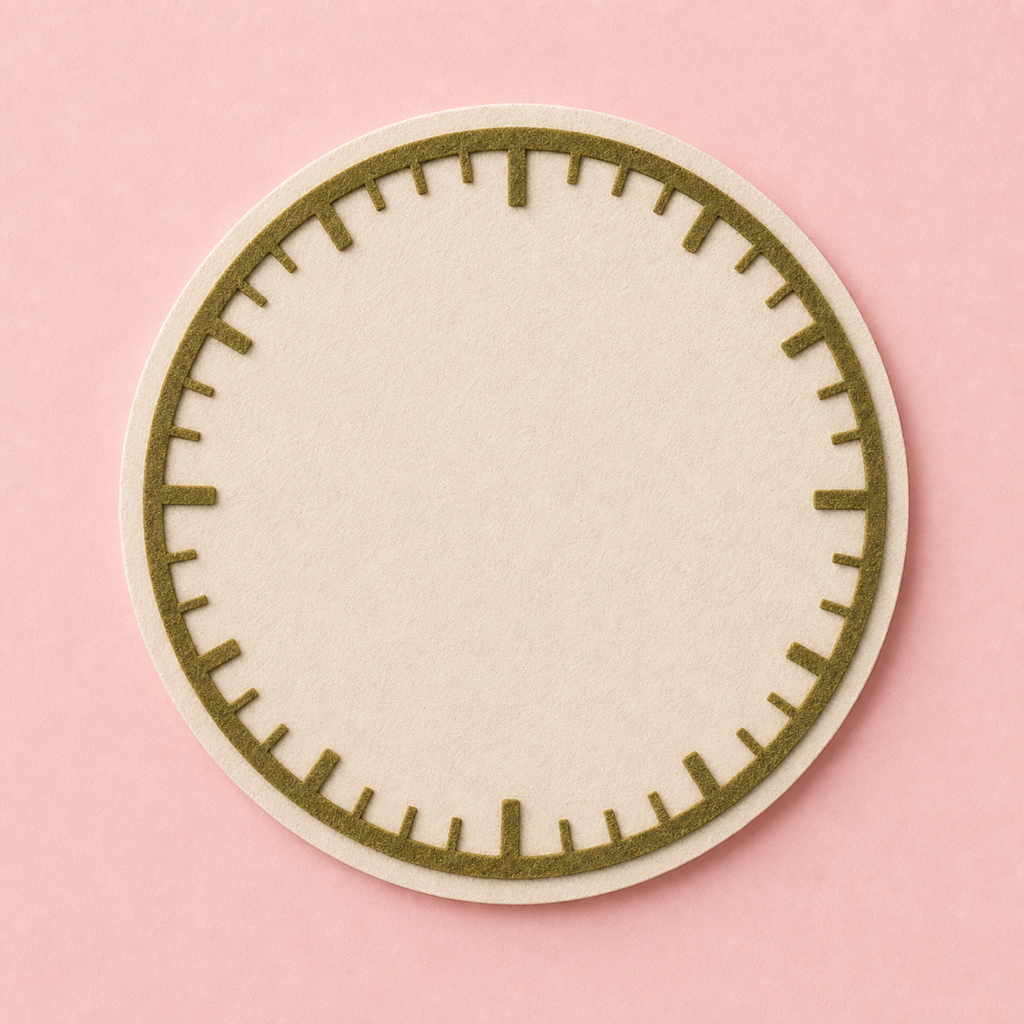
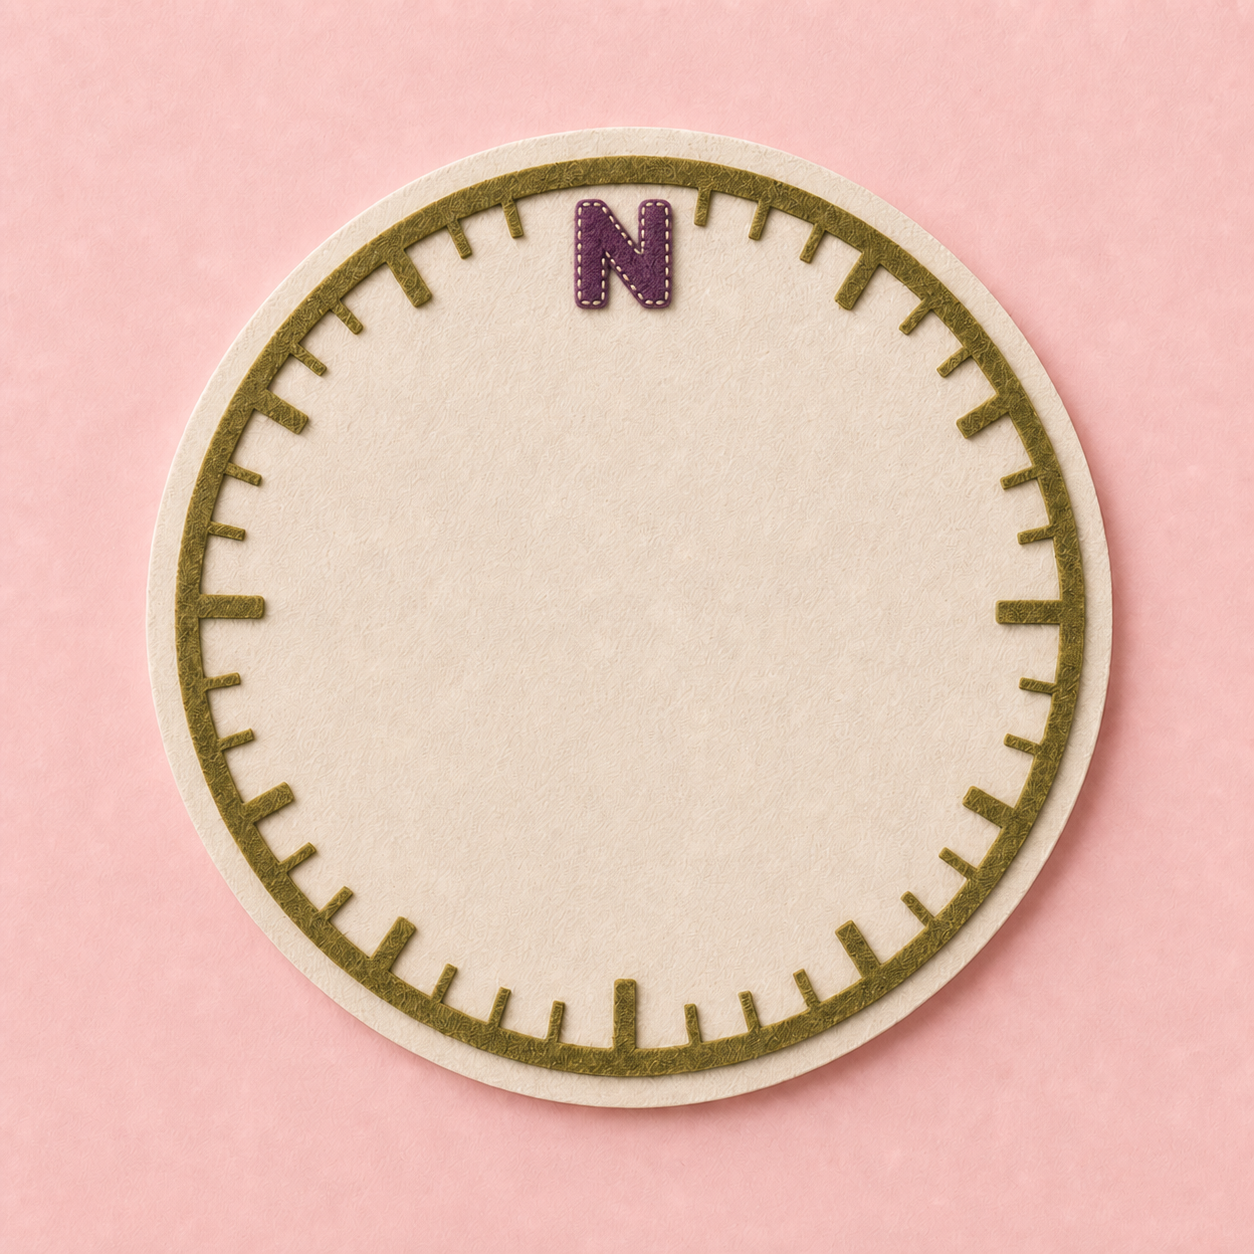
feat: add felt compass details and app support pages

Changed region(s): [[0.4375, 0.125, 0.5625, 0.25], [0.8125, 0.4688, 0.8438, 0.5], [0.3125, 0.7812, 0.3438, 0.8125]]

diff --git a/support.html b/support.html
@@ -1,0 +1,73 @@
+<!doctype html>
+<html lang="pl">
+<head>
+  <meta charset="utf-8">
+  <meta name="viewport" content="width=device-width, initial-scale=1, viewport-fit=cover">
+  <meta name="theme-color" content="#ffe1eb">
+  <meta name="description" content="Pomoc i kontakt dla aplikacji ŻabHop.">
+  <title>ŻabHop — pomoc / support</title>
+  <link rel="icon" href="./icon.png?v=4">
+  <link rel="stylesheet" href="./styles.css?v=6">
+</head>
+<body class="legal-page">
+  <main class="legal-shell">
+    <header class="legal-header">
+      <a class="brand-lockup legal-brand" href="./" aria-label="Wróć do ŻabHop">
+        <img src="./felt-frog.png" alt="" class="brand-icon">
+        <span class="brand-name">ŻabHop</span>
+      </a>
+      <a class="small-action" href="./">Wróć</a>
+    </header>
+
+    <article class="legal-document">
+      <p class="eyebrow">POMOC / SUPPORT</p>
+      <h1>Żaba zgubiła trop?</h1>
+      <p class="legal-lead">Najczęstsze problemy da się naprawić w Ustawieniach iPhone’a. Jeśli nie — zgłoszenie na GitHubie trafi prosto do projektu.</p>
+
+      <section>
+        <h2>Pomoc po polsku</h2>
+        <h3>Radar nie znajduje lokalizacji</h3>
+        <p>Wejdź w Ustawienia → Prywatność i ochrona → Usługi lokalizacji → ŻabHop i zezwól aplikacji na dostęp do lokalizacji podczas używania. Włącz „Dokładna lokalizacja”, aby poprawić wskazanie najbliższego sklepu.</p>
+        <h3>Strzałka pokazuje zły kierunek</h3>
+        <p>Odsuń telefon od magnesów i metalowych przedmiotów, porusz nim kilka razy w kształcie ósemki, a następnie trzymaj go płasko. Kierunek może potrzebować chwili na kalibrację.</p>
+        <h3>Sklepu nie ma na liście</h3>
+        <p>Baza sklepów jest dołączona do aplikacji i może wymagać aktualizacji po otwarciu lub zamknięciu placówki. W zgłoszeniu podaj ulicę, numer i miasto — bez przesyłania swojej bieżącej lokalizacji.</p>
+        <h3>Trasa w Apple Maps</h3>
+        <p>Przycisk trasy otwiera Apple Maps. Jeśli Mapy się nie uruchamiają, sprawdź, czy aplikacja Apple Maps jest dostępna na urządzeniu.</p>
+        <div class="support-callout">
+          <p class="eyebrow">KONTAKT</p>
+          <h3>Zgłoś problem lub pomysł</h3>
+          <p>Utwórz zgłoszenie w repozytorium i opisz model iPhone’a, wersję iOS oraz to, co widzisz na ekranie. Nie publikuj dokładnej lokalizacji ani innych danych osobowych.</p>
+          <a class="button button-primary" href="https://github.com/jakiesluchawki/zabhop/issues/new">Otwórz nowe zgłoszenie</a>
+        </div>
+      </section>
+
+      <hr>
+
+      <section lang="en">
+        <h2>Support in English</h2>
+        <h3>The radar cannot find my location</h3>
+        <p>Open Settings → Privacy &amp; Security → Location Services → ŻabHop and allow location access while using the app. Enable Precise Location for a more accurate nearest-store result.</p>
+        <h3>The arrow points the wrong way</h3>
+        <p>Move the phone away from magnets and metal objects, move it in a figure eight a few times, then hold it flat. The heading may need a moment to calibrate.</p>
+        <h3>A store is missing</h3>
+        <p>The store database is bundled with the app and may need an update after a location opens or closes. In your report, include the street, number, and city without sharing your current precise location.</p>
+        <h3>Directions in Apple Maps</h3>
+        <p>The directions button opens Apple Maps. If Maps does not launch, check that the Apple Maps app is available on your device.</p>
+        <div class="support-callout">
+          <p class="eyebrow">CONTACT</p>
+          <h3>Report a problem or idea</h3>
+          <p>Open an issue and include your iPhone model, iOS version, and what appears on screen. Do not post your precise location or other personal information.</p>
+          <a class="button button-primary" href="https://github.com/jakiesluchawki/zabhop/issues/new">Open a new issue</a>
+        </div>
+      </section>
+    </article>
+
+    <footer class="legal-footer">
+      <a href="./">ŻabHop</a>
+      <span aria-hidden="true">·</span>
+      <a href="./privacy.html">Prywatność / Privacy</a>
+    </footer>
+  </main>
+</body>
+</html>

diff --git a/privacy.html b/privacy.html
@@ -1,0 +1,71 @@
+<!doctype html>
+<html lang="pl">
+<head>
+  <meta charset="utf-8">
+  <meta name="viewport" content="width=device-width, initial-scale=1, viewport-fit=cover">
+  <meta name="theme-color" content="#ffe1eb">
+  <meta name="description" content="Polityka prywatności aplikacji ŻabHop.">
+  <title>ŻabHop — prywatność / privacy</title>
+  <link rel="icon" href="./icon.png?v=4">
+  <link rel="stylesheet" href="./styles.css?v=6">
+</head>
+<body class="legal-page">
+  <main class="legal-shell">
+    <header class="legal-header">
+      <a class="brand-lockup legal-brand" href="./" aria-label="Wróć do ŻabHop">
+        <img src="./felt-frog.png" alt="" class="brand-icon">
+        <span class="brand-name">ŻabHop</span>
+      </a>
+      <a class="small-action" href="./">Wróć</a>
+    </header>
+
+    <article class="legal-document">
+      <p class="eyebrow">PRYWATNOŚĆ / PRIVACY</p>
+      <h1>Twoja lokalizacja zostaje na urządzeniu.</h1>
+      <p class="legal-lead">ŻabHop działa bez konta, reklam, analityki i serwera dewelopera. Poniżej opisujemy dokładnie, co dzieje się z danymi.</p>
+
+      <section>
+        <h2>Polityka prywatności</h2>
+        <p class="legal-date">Obowiązuje od 11 lipca 2026 r.</p>
+        <h3>Lokalizacja i kompas</h3>
+        <p>Jeśli zezwolisz, aplikacja używa precyzyjnej lokalizacji oraz wskazań kompasu na urządzeniu, aby znaleźć najbliższy sklep, policzyć odległość i pokazać kierunek. Deweloper nie otrzymuje, nie zapisuje ani nie udostępnia tych danych.</p>
+        <h3>Baza sklepów i połączenia sieciowe</h3>
+        <p>Baza sklepów jest dołączona do aplikacji. ŻabHop nie wysyła lokalizacji do własnego backendu, ponieważ nie korzysta z backendu.</p>
+        <h3>Apple Maps</h3>
+        <p>Otwarcie trasy w Apple Maps jest opcjonalne i następuje dopiero po wybraniu tej funkcji. Dalsze przetwarzanie odbywa się przez Apple zgodnie z ustawieniami urządzenia i zasadami prywatności Apple.</p>
+        <h3>Inne dane</h3>
+        <p>ŻabHop nie wymaga konta i nie zawiera reklam ani narzędzi analitycznych. Deweloper nie zbiera danych osobowych, identyfikatorów urządzenia ani historii lokalizacji i nie przechowuje żadnych danych użytkownika.</p>
+        <h3>Twoja kontrola</h3>
+        <p>Dostęp do lokalizacji i kompasu możesz wyłączyć w dowolnym momencie w Ustawieniach urządzenia. Bez lokalizacji radar nie może wskazać najbliższego sklepu.</p>
+        <h3>Kontakt i zmiany</h3>
+        <p>Pytania dotyczące prywatności możesz zgłosić przez <a href="https://github.com/jakiesluchawki/zabhop/issues">GitHub Issues projektu ŻabHop</a>. Jeśli sposób działania aplikacji się zmieni, ta strona zostanie zaktualizowana.</p>
+      </section>
+
+      <hr>
+
+      <section lang="en">
+        <h2>Privacy Policy</h2>
+        <p class="legal-date">Effective July 11, 2026.</p>
+        <h3>Location and compass</h3>
+        <p>With your permission, the app uses precise location and compass readings on your device to find the nearest store, calculate distance, and show direction. The developer does not receive, store, or share this data.</p>
+        <h3>Store database and network connections</h3>
+        <p>The store database is bundled with the app. ŻabHop does not send your location to a developer-operated backend because it does not use one.</p>
+        <h3>Apple Maps</h3>
+        <p>Opening directions in Apple Maps is optional and happens only after you choose that action. Any further processing is handled by Apple under your device settings and Apple’s privacy terms.</p>
+        <h3>Other data</h3>
+        <p>ŻabHop requires no account and contains no advertising or analytics tools. The developer does not collect personal data, device identifiers, or location history, and stores no user data.</p>
+        <h3>Your control</h3>
+        <p>You can disable location and compass access at any time in your device settings. Without location access, the radar cannot identify the nearest store.</p>
+        <h3>Contact and changes</h3>
+        <p>For privacy questions, open an issue in the <a href="https://github.com/jakiesluchawki/zabhop/issues">ŻabHop GitHub repository</a>. This page will be updated if the app’s data practices change.</p>
+      </section>
+    </article>
+
+    <footer class="legal-footer">
+      <a href="./">ŻabHop</a>
+      <span aria-hidden="true">·</span>
+      <a href="./support.html">Pomoc / Support</a>
+    </footer>
+  </main>
+</body>
+</html>

diff --git a/styles.css b/styles.css
@@ -147,22 +147,6 @@ h2 { font-size: 32px; line-height: .95; }
   margin: 9px auto -5px;
 }
 .compass-plate { width: 100%; height: 100%; display: block; border-radius: 24px; object-fit: cover; }
-.north-label {
-  position: absolute;
-  top: 30px;
-  left: 50%;
-  transform: translateX(-50%);
-  z-index: 2;
-  width: 30px;
-  height: 30px;
-  display: grid;
-  place-items: center;
-  border-radius: 50%;
-  color: var(--paper-warm);
-  background: var(--olive);
-  font-size: 12px;
-  font-weight: 700;
-}
 .needle {
   position: absolute;
   z-index: 3;
@@ -177,7 +161,7 @@ h2 { font-size: 32px; line-height: .95; }
   transition: transform .22s cubic-bezier(.2, .7, .2, 1);
   will-change: transform;
 }
-.needle img { width: 190px; height: 190px; display: block; }
+.needle img { width: 220px; height: 220px; display: block; object-fit: contain; }
 
 .distance-row { display: flex; justify-content: center; align-items: baseline; gap: 7px; }
 .distance-row strong { font-size: clamp(58px, 17vw, 72px); line-height: .88; letter-spacing: -.055em; font-variant-numeric: tabular-nums; }
@@ -202,6 +186,8 @@ h2 { font-size: 32px; line-height: .95; }
 
 footer { padding: 18px 4px 0; text-align: center; font-size: 10px; }
 footer p { margin: 0 0 9px; opacity: .7; }
+.legal-links { display: flex; align-items: center; justify-content: center; gap: 7px; margin: 0 0 10px; }
+.legal-links a, .legal-footer a { color: inherit; text-underline-offset: 3px; }
 .install-hint { border: 1px solid var(--line); border-radius: 999px; padding: 8px 12px; color: var(--olive); background: transparent; font-size: 11px; }
 
 .sheet-backdrop { position: fixed; z-index: 8; inset: 0; background: rgba(73, 57, 47, .35); }
@@ -265,13 +251,43 @@ footer p { margin: 0 0 9px; opacity: .7; }
 }
 .toast.show { opacity: 1; transform: translate(-50%, 0); }
 
+.legal-page { min-width: 320px; background: var(--paper); }
+.legal-shell {
+  width: min(100%, 760px);
+  min-height: 100svh;
+  margin: 0 auto;
+  padding: max(14px, env(safe-area-inset-top)) clamp(20px, 6vw, 54px) max(28px, env(safe-area-inset-bottom));
+}
+.legal-header { display: flex; align-items: center; justify-content: space-between; gap: 16px; padding-bottom: 17px; border-bottom: 1px solid var(--soft-line); }
+.legal-brand { color: inherit; text-decoration: none; }
+.legal-header .small-action { color: inherit; }
+.legal-document { padding-top: clamp(36px, 8vw, 70px); }
+.legal-document > h1 { max-width: 10ch; font-size: clamp(48px, 10vw, 76px); }
+.legal-lead { max-width: 50ch; margin: 20px 0 0; font-size: clamp(18px, 3vw, 22px); line-height: 1.45; }
+.legal-document section { margin-top: clamp(48px, 9vw, 76px); }
+.legal-document section h2 { margin-bottom: 8px; font-size: clamp(36px, 7vw, 52px); }
+.legal-document section h3 { margin: 30px 0 8px; font-size: 15px; letter-spacing: .02em; }
+.legal-document section p { max-width: 66ch; margin: 0; font-size: 16px; line-height: 1.65; }
+.legal-document a:not(.button) { color: var(--violet); text-decoration-thickness: 1px; text-underline-offset: 4px; }
+.legal-date { opacity: .68; }
+.legal-document hr { margin: clamp(56px, 10vw, 90px) 0 0; border: 0; border-top: 1px solid var(--line); }
+.support-callout { margin-top: 42px; padding: clamp(22px, 5vw, 36px); border: 1px solid var(--line); border-radius: 18px; background: var(--paper-warm); }
+.support-callout h3 { margin-top: 0 !important; font-family: "Romie", Georgia, serif; font-size: 30px !important; font-weight: 400; letter-spacing: -.035em !important; }
+.support-callout .button { width: fit-content; margin-top: 22px; text-decoration: none; }
+.legal-footer { display: flex; align-items: center; justify-content: center; gap: 8px; margin-top: clamp(56px, 10vw, 90px); padding-top: 22px; border-top: 1px solid var(--soft-line); font-size: 12px; }
+
+@media (max-width: 520px) {
+  .legal-document > h1 { font-size: 50px; }
+  .legal-document section h2 { font-size: 38px; }
+  .support-callout .button { width: 100%; }
+}
+
 @media (max-height: 760px) {
   .felt-hero { height: 250px; }
   .screen { padding-top: 14px; }
   h1 { font-size: 50px; }
   .lead { font-size: 15px; }
   .compass-stage { width: 300px; margin-top: 3px; }
-  .north-label { top: 27px; }
   .distance-row strong { font-size: 58px; }
 }
 

diff --git a/index.html b/index.html
@@ -17,7 +17,7 @@
   <link rel="manifest" href="./manifest.webmanifest?v=4">
   <link rel="apple-touch-icon" href="./icon.png?v=4">
   <link rel="icon" href="./icon.png?v=4">
-  <link rel="stylesheet" href="./styles.css?v=4">
+  <link rel="stylesheet" href="./styles.css?v=6">
 </head>
 <body>
   <main class="app-shell">
@@ -62,10 +62,9 @@
       </div>
 
       <div class="compass-stage" id="compass" aria-label="Kierunek do wybranej Żabki">
-        <img src="./felt-compass.png" alt="" class="compass-plate">
-        <span class="north-label" aria-hidden="true">N</span>
+        <img src="./felt-compass.png?v=6" alt="" class="compass-plate">
         <div id="needle" class="needle" aria-hidden="true">
-          <img src="./assets/direction-arrow-fill.svg" alt="">
+          <img src="./felt-arrow.png?v=6" alt="">
         </div>
       </div>
 
@@ -100,6 +99,11 @@
 
     <footer>
       <p>Dane lokalizacji: Żabka Polska i OpenStreetMap</p>
+      <nav class="legal-links" aria-label="Informacje prawne i pomoc">
+        <a href="./privacy.html">Prywatność</a>
+        <span aria-hidden="true">·</span>
+        <a href="./support.html">Pomoc</a>
+      </nav>
       <button id="installHintButton" class="install-hint" type="button">Dodaj do ekranu początkowego</button>
     </footer>
   </main>

diff --git a/sw.js b/sw.js
@@ -1,15 +1,17 @@
-const CACHE_NAME = "zabhop-shell-v5";
+const CACHE_NAME = "zabhop-shell-v6";
 const SHELL = [
   "./",
   "./index.html",
-  "./styles.css",
+  "./styles.css?v=6",
   "./app.js",
   "./manifest.webmanifest",
   "./icon.png",
   "./felt-frog.png",
-  "./felt-compass.png",
+  "./felt-compass.png?v=6",
+  "./felt-arrow.png?v=6",
   "./stores.json",
-  "./assets/direction-arrow-fill.svg",
+  "./privacy.html",
+  "./support.html",
   "./fonts/Romie-Regular.woff2",
   "./fonts/Roobert-Regular.woff2",
   "./fonts/Roobert-Bold.woff2"

diff --git a/design-qa.md b/design-qa.md
@@ -14,6 +14,8 @@ Final result: **PASSED**
 - Combined source/implementation board: `../qa/redesign/08-combined-comparison.png`
 - Start state: `../qa/redesign/06-after-start.png`
 - Live radar state: `../qa/redesign/05-after-radar-v3.png`
+- Final felt-arrow radar state: `../qa/ios/11-web-radar-felt-arrow.png`
+- Focused native before/after material check: `../qa/ios/12-arrow-comparison.png`
 - Store picker state: `../qa/redesign/07-shop-list.png`
 
 Both the full mobile composition and the focused felt-material regions were reviewed in one combined visual input. The implementation matches the reference's pink field, olive/ivory/violet palette, high-contrast editorial display type, restrained controls, rounded tactile objects and visible felt fibers.
@@ -40,6 +42,17 @@ Fixes applied: full pink/olive/violet redesign, generated felt frog and compass 
 - Interaction: passed; start, five-store picker, close action and route control are present and keyboard-accessible.
 - Data regression: passed; `ul. Dolna 11 lok. U-2, Warszawa` is returned as the closest store in the Dolna test position.
 - Browser console: no warnings or errors in the tested start, radar and store-picker states.
+
+### Final / iteration 2 — compass material pass
+
+- P1: the flat vector arrow looked detached from the tactile compass.
+- P2: the floating circular `N` badge looked like an overlay rather than part of the physical object.
+
+Fixes applied: generated a centered layered felt arrow with a real alpha channel, integrated a stitched plum felt `N` directly into the compass artwork, removed the HTML north-label overlay, and versioned the offline shell cache so the replacement assets propagate to installed PWAs.
+
+- P0 findings: none.
+- P1 findings: none.
+- P2 findings: none.
 
 ## Functional checks
 